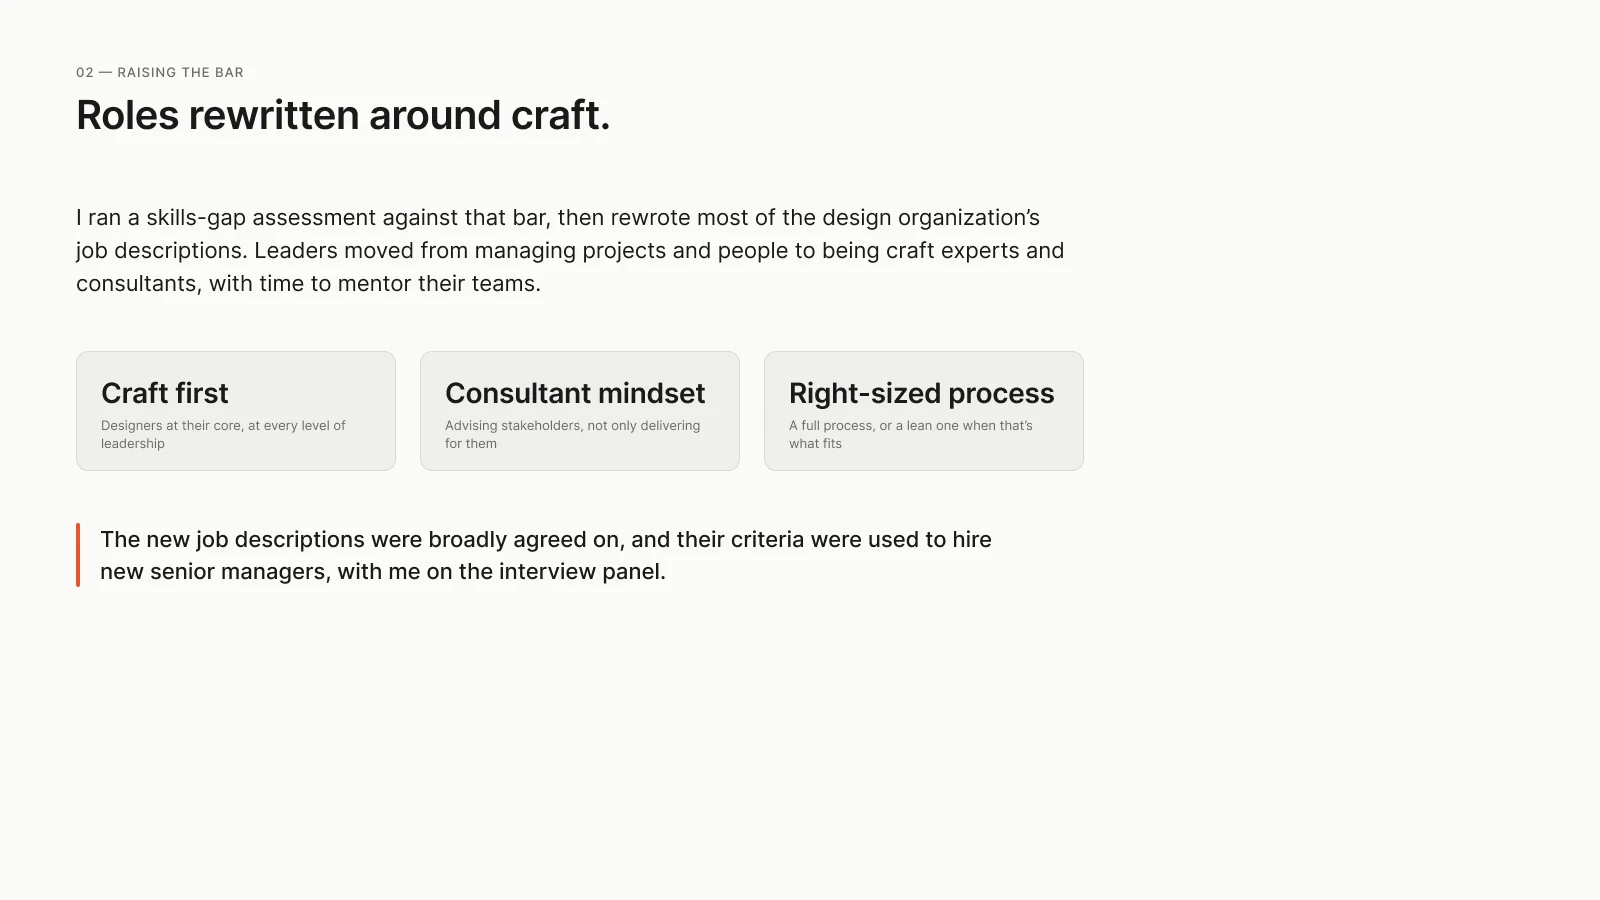
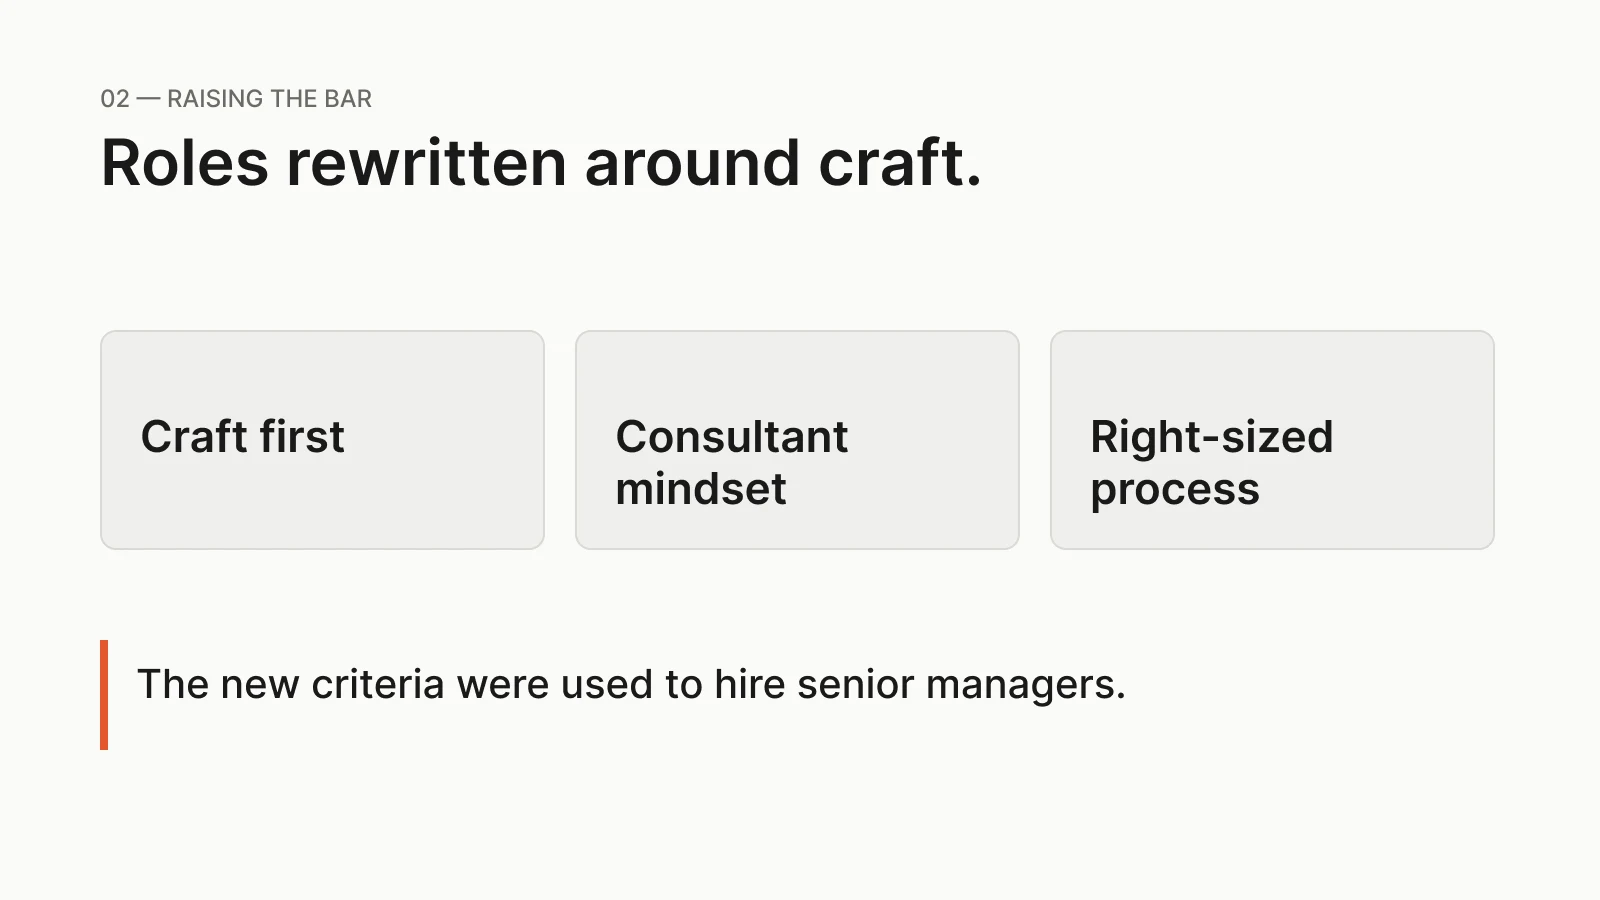
Coppel: simplified diagrams sized for the carousel
Claude-Session: https://claude.ai/code/session_01SVxtoQymuybJ25c4JipKrM

diff --git a/index.html b/index.html
@@ -214,13 +214,13 @@ var t=localStorage.getItem(k);if(t)document.documentElement.setAttribute('data-t
         <figure class="case-visual">
           <div class="carousel wide" aria-roledescription="carousel" aria-label="Coppel diagrams">
             <div class="car-stage">
-              <div class="car-slide" data-title="The goal" data-desc="Leadership wanted design work on par with the best tech companies. The gap had two halves: the team&#x27;s craft, and the structure around it."><img src="assets/img/coppel-1.webp" width="1600" height="900" alt="Diagram: the goal of design on par with the best tech companies, split into craft and structure." loading="lazy" decoding="async"></div>
-              <div class="car-slide" data-title="Raising the bar" data-desc="After a skills-gap assessment, I rewrote the job descriptions so leaders became craft experts with time to mentor, and the new criteria shaped senior hiring."><img src="assets/img/coppel-2.webp" width="1600" height="900" alt="Diagram: three role principles, craft first, consultant mindset, and right-sized process." loading="lazy" decoding="async"></div>
-              <div class="car-slide" data-title="Six pods, no one between them" data-desc="Each pod optimized its own phase against its own metrics. No one owned the handoffs or the journey as a whole."><img src="assets/img/coppel-3.webp" width="1600" height="900" alt="Diagram: six phase-based pods along the customer journey, with unowned handoffs between each." loading="lazy" decoding="async"></div>
-              <div class="car-slide" data-title="Who owns what" data-desc="Design reported to a director accountable for delivery. The people accountable for outcomes sat outside that line, so requirements arrived as decisions."><img src="assets/img/coppel-4.webp" width="1600" height="900" alt="Diagram: the delivery reporting line and the outcome line, with no reporting line crossing between them." loading="lazy" decoding="async"></div>
-              <div class="car-slide" data-title="The method" data-desc="I validated the finding with product and technology counterparts first, so it reached leadership as a shared operating problem."><img src="assets/img/coppel-5.webp?v=2" width="1600" height="900" alt="Diagram: four steps, surface the gap, validate sideways, reframe it, then walk it up." loading="lazy" decoding="async"></div>
-              <div class="car-slide" data-title="The recommendation" data-desc="Organize by channel, the way engineering already was, with a cross-channel guild owning the journey. Accepted, then deferred behind a CEO-led redesign."><img src="assets/img/coppel-6.webp" width="1600" height="900" alt="Diagram: six pods today versus proposed mobile, web, and kiosk teams under a cross-channel strategy guild." loading="lazy" decoding="async"></div>
-              <div class="car-slide" data-title="What lasted" data-desc="I facilitated a day-and-a-half workshop where the team wrote its own five design principles. Designers were still using them months later."><img src="assets/img/coppel-7.webp" width="1600" height="900" alt="Diagram: a 1.5-day workshop, five principles written by the team, presented beyond retail." loading="lazy" decoding="async"></div>
+              <div class="car-slide" data-title="The goal" data-desc="Leadership wanted design work on par with the best tech companies. The gap had two halves: the team&#x27;s craft, and the structure around it."><img src="assets/img/coppel-1.webp?v=3" width="1600" height="900" alt="Diagram: the goal of design on par with the best tech companies, split into craft and structure." loading="lazy" decoding="async"></div>
+              <div class="car-slide" data-title="Raising the bar" data-desc="After a skills-gap assessment, I rewrote the job descriptions so leaders became craft experts with time to mentor, and the new criteria shaped senior hiring."><img src="assets/img/coppel-2.webp?v=3" width="1600" height="900" alt="Diagram: three role principles, craft first, consultant mindset, and right-sized process." loading="lazy" decoding="async"></div>
+              <div class="car-slide" data-title="Six pods, no one between them" data-desc="Each pod optimized its own phase against its own metrics. No one owned the handoffs or the journey as a whole."><img src="assets/img/coppel-3.webp?v=3" width="1600" height="900" alt="Diagram: six phase-based pods along the customer journey, with unowned handoffs between each." loading="lazy" decoding="async"></div>
+              <div class="car-slide" data-title="Who owns what" data-desc="Design reported to a director accountable for delivery. The people accountable for outcomes sat outside that line, so requirements arrived as decisions."><img src="assets/img/coppel-4.webp?v=3" width="1600" height="900" alt="Diagram: the delivery reporting line and the outcome line, with no reporting line crossing between them." loading="lazy" decoding="async"></div>
+              <div class="car-slide" data-title="The method" data-desc="I validated the finding with product and technology counterparts first, so it reached leadership as a shared operating problem."><img src="assets/img/coppel-5.webp?v=3" width="1600" height="900" alt="Diagram: four steps, surface the gap, validate sideways, reframe it, then walk it up." loading="lazy" decoding="async"></div>
+              <div class="car-slide" data-title="The recommendation" data-desc="Organize by channel, the way engineering already was, with a cross-channel guild owning the journey. Accepted, then deferred behind a CEO-led redesign."><img src="assets/img/coppel-6.webp?v=3" width="1600" height="900" alt="Diagram: six pods today versus proposed mobile, web, and kiosk teams under a cross-channel strategy guild." loading="lazy" decoding="async"></div>
+              <div class="car-slide" data-title="What lasted" data-desc="I facilitated a day-and-a-half workshop where the team wrote its own five design principles. Designers were still using them months later."><img src="assets/img/coppel-7.webp?v=3" width="1600" height="900" alt="Diagram: a 1.5-day workshop, five principles written by the team, presented beyond retail." loading="lazy" decoding="async"></div>
             </div>
             <div class="car-info">
               <div class="car-text" aria-live="polite">
